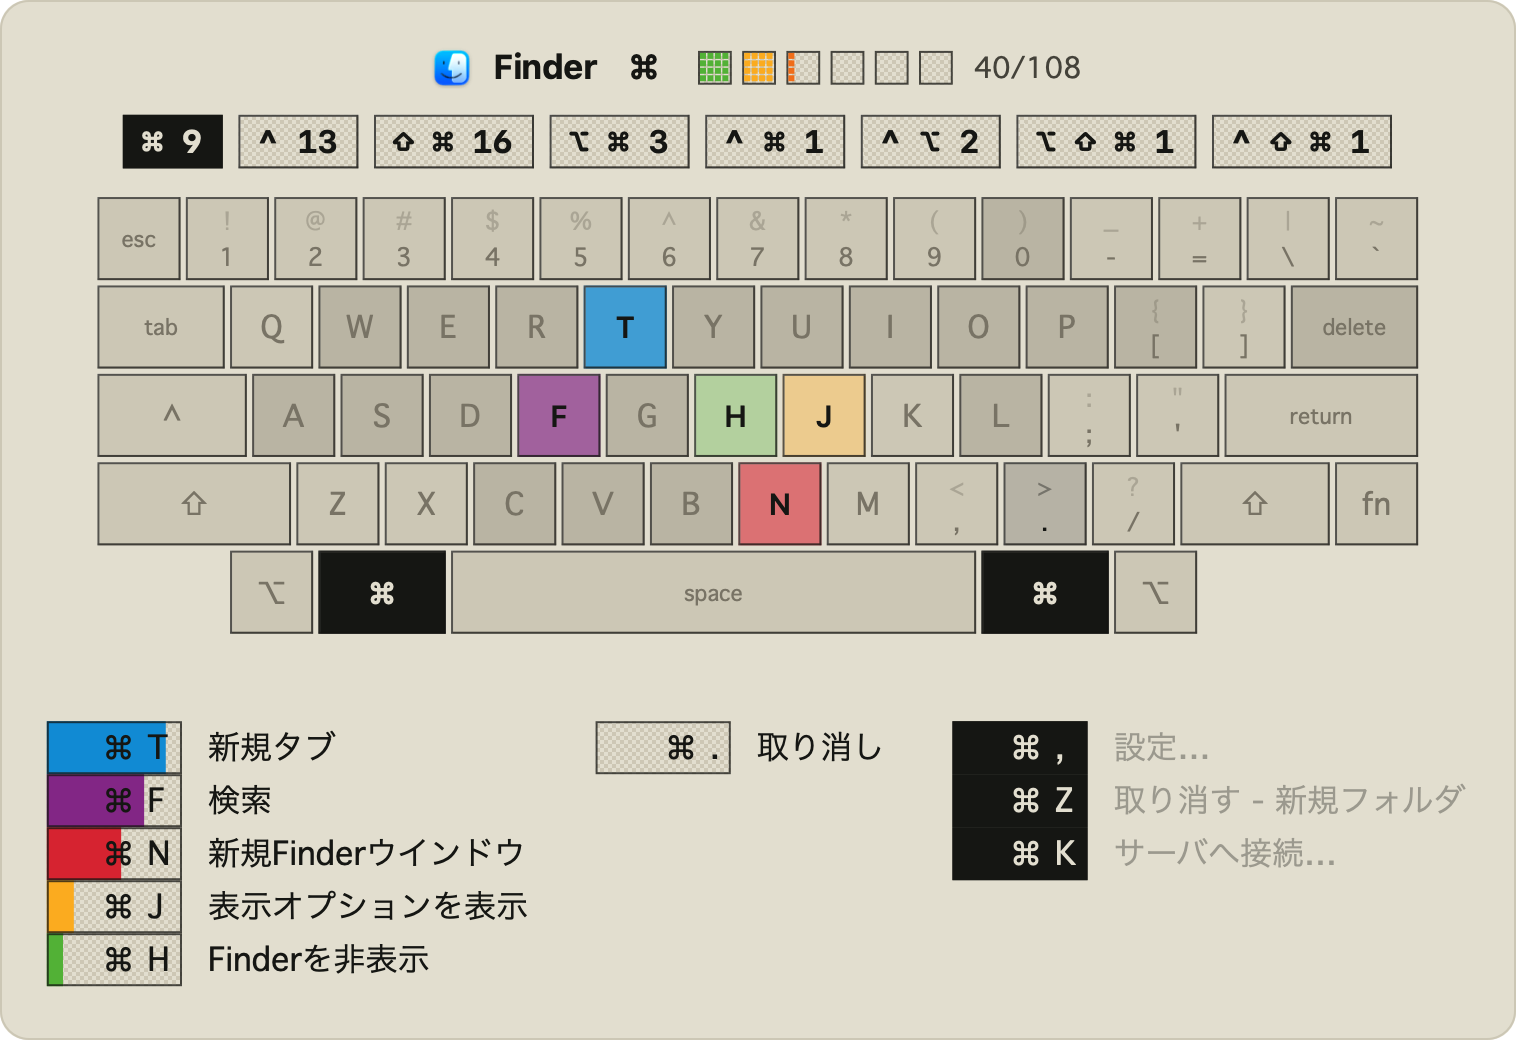
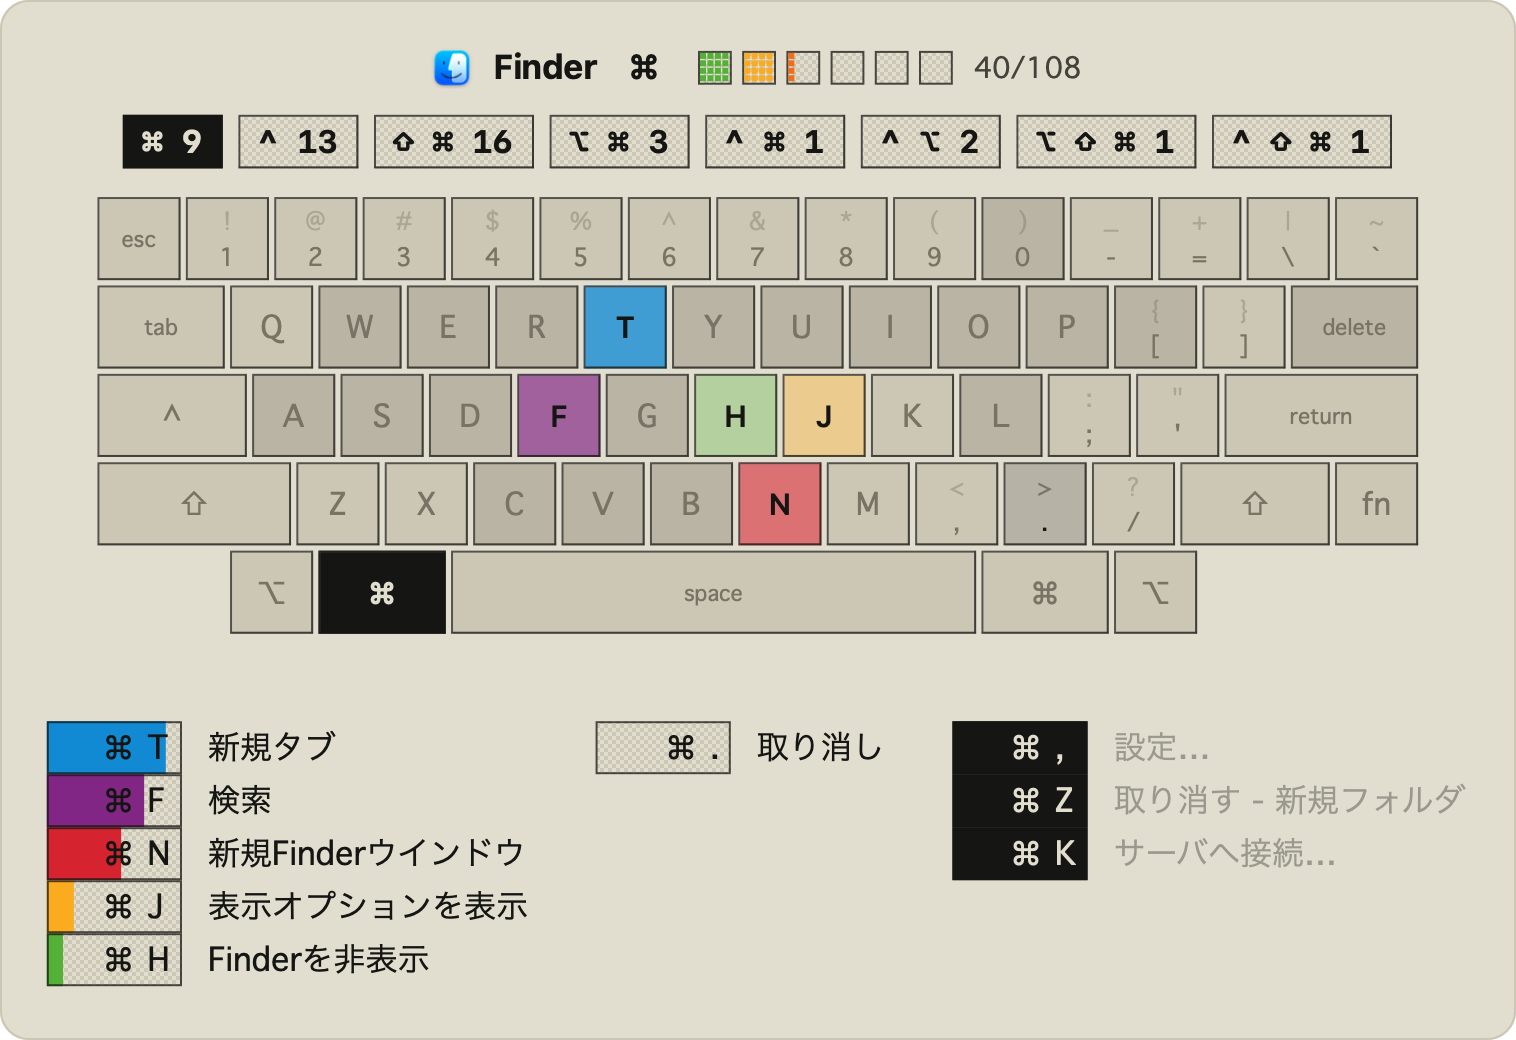
描画時に押している側を明示する（両方光る既定に落とさない）
renderPNG は heldSides を空にしていた。対象スクリーンと同じ理由で、値が「最後に
ホールドしたアプリ」由来だったためである。

ただし .unknown は「押されていない」ではなく「このキーボードは左右を報告しない」
の意味で、その場合は押された修飾キーの左右両方が光る。結果としてスクリーン
ショットは ⌘ を両方押した状態を示しており、誰もしない打鍵だった。

アイコンと同じく、呼び出し側が明示する形にした。

Changed region(s): [[0.6201, 0.5231, 0.7441, 0.6154]]

diff --git a/Sources/KeyHUDCore/HUDPanel.swift b/Sources/KeyHUDCore/HUDPanel.swift
@@ -322,8 +322,14 @@ final class HUDPanel {
     ///   why it used to be blanked here — but blanking it made every capture disagree with
     ///   the running panel, which draws the frontmost app's icon in its header. The render
     ///   knows exactly which app it is drawing, so the icon is not ambient for it.
+    /// - Parameter sides: which physical modifier keys to draw as held. Neutralised to
+    ///   `.unknown` here for the same reason the screen was, and `.unknown` lights *both*
+    ///   caps of every held modifier — correct for a keyboard that does not report sides,
+    ///   and a picture of something that never happens for one that does. A capture states
+    ///   what it is showing rather than falling through to the ambiguous case.
     func renderPNG(appName: String, appKey: String, sections: [MenuSection],
-                   mods: Shortcut.Mods, icon: NSImage? = nil) -> Data? {
+                   mods: Shortcut.Mods, icon: NSImage? = nil,
+                   sides: Shortcut.Sides = .unknown) -> Data? {
         // Pinned so two captures of different builds are comparable. Whether the text
         // layer applies otherwise depends on what has keyboard focus at that instant, and
         // comparing two builds produced thirty-two differing images of which twenty-four
@@ -340,7 +346,7 @@ final class HUDPanel {
         // anything — except the icon, which the caller states outright.
         let liveIcon = appIcon, liveScreen = targetScreen, liveSides = heldSides
         let liveFn = canTypeFunctionModifier
-        appIcon = icon; targetScreen = nil; heldSides = .unknown; canTypeFunctionModifier = false
+        appIcon = icon; targetScreen = nil; heldSides = sides; canTypeFunctionModifier = false
         defer { appIcon = liveIcon; targetScreen = liveScreen; heldSides = liveSides
                 canTypeFunctionModifier = liveFn }
 

diff --git a/Sources/KeyHUDCore/App.swift b/Sources/KeyHUDCore/App.swift
@@ -335,6 +335,14 @@ final class AppDelegate: NSObject, NSApplicationDelegate {
         return mods
     }
 
+    /// Which physical keys a capture shows as held. A hold is one hand on one side; the
+    /// neutral value lights both, which is a picture of a keypress nobody makes.
+    private static var previewSides: Shortcut.Sides {
+        var s = Shortcut.Sides()
+        s.command = .left; s.control = .left; s.option = .left; s.shift = .left
+        return s
+    }
+
     private func writePreviews() {
         // renderPNG writes the same fields rerender reads. Firing this during a hold
         // redrew the on-screen panel from the preview target's menus.
@@ -377,7 +385,7 @@ final class AppDelegate: NSObject, NSApplicationDelegate {
                     self.learning.settings = s
                     guard let png = self.hud.renderPNG(appName: name, appKey: appKey,
                                                        sections: sections, mods: Self.previewMods,
-                                                       icon: app.icon)
+                                                       icon: app.icon, sides: Self.previewSides)
                     else { continue }
                     try? png.write(to: self.dataDir.appendingPathComponent("preview-\(mode).png"))
                 }
